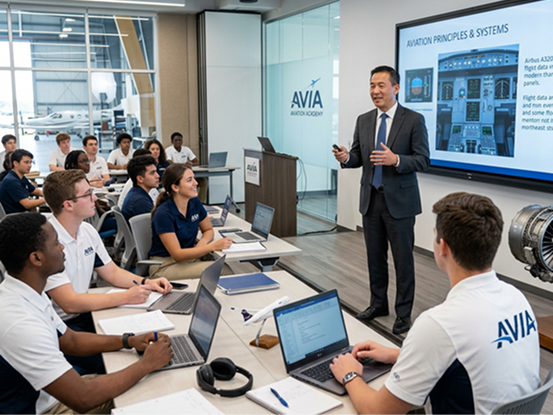
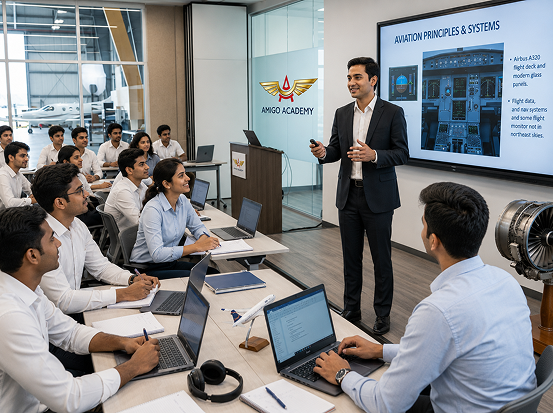
Apply changes to b48754f version

diff --git a/src/components/Footer.tsx b/src/components/Footer.tsx
@@ -26,7 +26,7 @@ export default function Footer() {
               className="flex items-center focus:outline-none w-fit"
               aria-label="Amigo Academy Home"
             >
-              <img src={logofooter} alt="Amigo Academy Logo" className="h-9 sm:h-12 w-auto object-contain" />
+              <img src={logofooter} alt="Amigo Academy Logo" className="h-16 sm:h-20 w-auto object-contain" />
             </button>
 
             {/* Contacts */}
@@ -86,7 +86,6 @@ export default function Footer() {
             </h4>
             <nav className="flex flex-col space-y-2.5 text-xs sm:text-sm text-slate-400">
               <button onClick={() => handleNavClick("/courses/air-hostess-cabin-crew-hospitality-management")} className="text-left hover:text-white transition-colors w-fit">Air Hostess / Cabin Crew</button>
-              <button onClick={() => handleNavClick("/courses/airport-ground-staff-hospitality-management")} className="text-left hover:text-white transition-colors w-fit">Airport Ground Staff</button>
               <button onClick={() => handleNavClick("/courses/ai-data-science-with-generative-ai-machine-learning")} className="text-left hover:text-white transition-colors w-fit">AI & Data Science</button>
               <button onClick={() => handleNavClick("/courses")} className="text-left hover:text-white transition-colors w-fit">All Courses</button>
             </nav>
@@ -98,9 +97,9 @@ export default function Footer() {
               Career Guides
             </h4>
             <nav className="flex flex-col space-y-2.5 text-xs sm:text-sm text-slate-400">
-              <button onClick={() => handleNavClick("/cabin-crew")} className="text-left hover:text-white transition-colors w-fit">Cabin Crew</button>
-              <button onClick={() => handleNavClick("/airport-ground-staff")} className="text-left hover:text-white transition-colors w-fit">Airport Ground Staff</button>
-              <button onClick={() => handleNavClick("/ai-data-science")} className="text-left hover:text-white transition-colors w-fit">AI & Data Science</button>
+              <button onClick={() => handleNavClick("/career-guide/cabin-crew")} className="text-left hover:text-white transition-colors w-fit">Cabin Crew</button>
+              <button onClick={() => handleNavClick("/career-guide/airport-ground-staff")} className="text-left hover:text-white transition-colors w-fit">Airport Ground Staff</button>
+              <button onClick={() => handleNavClick("/career-guide/ai-data-science")} className="text-left hover:text-white transition-colors w-fit">AI & Data Science</button>
               <button onClick={() => handleNavClick("/career-guides")} className="text-left hover:text-white transition-colors w-fit">All Career Guides</button>
             </nav>
           </div>
@@ -188,22 +187,34 @@ export default function Footer() {
         {/* Bottom copyright & Socials */}
         <div className="pt-8 flex flex-col md:flex-row items-center justify-between text-xs text-slate-500">
           {/* Social Links */}
-          <div className="flex items-center space-x-4 mb-4 md:mb-0">
-            <span className="text-slate-400 font-sans font-bold uppercase tracking-wider mr-2">Get Social</span>
-
+          <div className="flex items-center space-x-6 mb-4 md:mb-0">
             {/* Facebook */}
-            <a href="https://www.facebook.com/share/1dUEaqYi4g/" target="_blank" rel="noreferrer" className="w-7 h-7 rounded-full border border-slate-700 flex items-center justify-center text-slate-400 hover:text-white hover:border-white transition-colors" aria-label="Facebook">
-              <svg className="w-3.5 h-3.5 fill-currentColor" viewBox="0 0 24 24">
+            <a href="https://www.facebook.com/share/1dUEaqYi4g/" target="_blank" rel="noreferrer" className="text-slate-400 hover:text-white transition-colors" aria-label="Facebook">
+              <svg className="w-5 h-5 fill-current" viewBox="0 0 24 24">
                 <path d="M22 12c0-5.52-4.48-10-10-10S2 6.48 2 12c0 4.84 3.44 8.87 8 9.8V15H8v-3h2V9.5C10 7.57 11.57 6 13.5 6H16v3h-2c-.55 0-1 .45-1 1v2h3v3h-3v6.95c4.56-.93 8-4.96 8-9.75z" />
               </svg>
             </a>
 
             {/* Instagram */}
-            <a href="https://www.instagram.com/amigo_academy?igsh=MXVyOGR3Y3lid3RsMg==" target="_blank" rel="noreferrer" className="w-7 h-7 rounded-full border border-slate-700 flex items-center justify-center text-slate-400 hover:text-white hover:border-white transition-colors" aria-label="Instagram">
-              <svg className="w-3.5 h-3.5" fill="none" stroke="currentColor" strokeWidth={2} viewBox="0 0 24 24">
+            <a href="https://www.instagram.com/amigo_academy?igsh=MXVyOGR3Y3lid3RsMg==" target="_blank" rel="noreferrer" className="text-slate-400 hover:text-white transition-colors" aria-label="Instagram">
+              <svg className="w-5 h-5 fill-none stroke-current" strokeWidth={2} viewBox="0 0 24 24">
                 <rect x="2" y="2" width="20" height="20" rx="5" ry="5" />
                 <path d="M16 11.37A4 4 0 1112.63 8 4 4 0 0116 11.37z" />
                 <line x1="17.5" y1="6.5" x2="17.51" y2="6.5" />
+              </svg>
+            </a>
+
+            {/* X (formerly Twitter) */}
+            <a href="https://x.com/amigo_academy" target="_blank" rel="noreferrer" className="text-slate-400 hover:text-white transition-colors" aria-label="X (Twitter)">
+              <svg className="w-5 h-5 fill-current" viewBox="0 0 24 24">
+                <path d="M18.244 2.25h3.308l-7.227 8.26 8.502 11.24H16.17l-5.214-6.817L4.99 21.75H1.68l7.73-8.835L1.254 2.25H8.08l4.713 6.231zm-1.161 17.52h1.833L7.084 4.126H5.117z" />
+              </svg>
+            </a>
+
+            {/* LinkedIn */}
+            <a href="https://www.linkedin.com/company/amigo-academy" target="_blank" rel="noreferrer" className="text-slate-400 hover:text-white transition-colors" aria-label="LinkedIn">
+              <svg className="w-5 h-5 fill-current" viewBox="0 0 24 24">
+                <path d="M19 3a2 2 0 0 1 2 2v14a2 2 0 0 1-2 2H5a2 2 0 0 1-2-2V5a2 2 0 0 1 2-2h14m-.5 15.5v-5.3a3.26 3.26 0 0 0-3.26-3.26c-.85 0-1.84.52-2.32 1.3v-1.11h-2.79v8.37h2.79v-4.93c0-.77.62-1.4 1.39-1.4a1.4 1.4 0 0 1 1.4 1.4v4.93h2.79M6.88 8.56a1.68 1.68 0 0 0 1.68-1.68c0-.93-.75-1.69-1.68-1.69a1.69 1.69 0 0 0-1.69 1.69c0 .93.76 1.68 1.69 1.68m1.39 9.94v-8.37H5.5v8.37h2.77z"/>
               </svg>
             </a>
           </div>

diff --git a/src/components/Header.tsx b/src/components/Header.tsx
@@ -19,12 +19,11 @@ export default function Header() {
   const courses = [
     { name: "Aviation & Hospitality Management", desc: "12-month professional diploma" },
     { name: "Air Hostess Training", desc: "Cabin crew training & placement" },
-    { name: "AI & Data Science Certified", desc: "State certified analytics course" },
-    { name: "Global Airport Operations", desc: "Ground staff & security management" }
+    { name: "AI & Data Science Certified", desc: "State certified analytics course" }
   ];
 
   return (
-    <header className="w-full z-50 bg-white">
+    <header className="w-full sticky md:static top-0 z-50 bg-white max-md:shadow-sm">
       {/* Top Bar 1: Certification Notice */}
       <div className="w-full bg-[#f6a619] py-2 px-4 text-center border-b border-amber-600/10">
         <p className="text-neutral-900 font-sans font-bold text-[11px] sm:text-xs md:text-sm flex items-center justify-center gap-1.5 leading-none">
@@ -58,15 +57,18 @@ export default function Header() {
               className="flex items-center focus:outline-none"
               aria-label="Amigo Academy Home"
             >
-              <img src={logo} alt="Amigo Academy Logo" className="h-12 sm:h-16 lg:h-[72px] w-auto object-contain py-1" />
+              <img src={logo} alt="Amigo Academy Logo" className="h-16 sm:h-16 lg:h-[72px] w-auto object-contain py-1" />
             </button>
 
             {/* Desktop Links */}
             <nav className="hidden md:flex items-center space-x-5 text-[#1e293b] font-sans font-semibold text-sm">
               {/* Courses Dropdown Link */}
-              <div className="relative">
+              <div
+                className="relative"
+                onMouseEnter={() => setIsCoursesDropdownOpen(true)}
+                onMouseLeave={() => setIsCoursesDropdownOpen(false)}
+              >
                 <button
-                  onMouseEnter={() => setIsCoursesDropdownOpen(true)}
                   onClick={() => setIsCoursesDropdownOpen(!isCoursesDropdownOpen)}
                   className="flex items-center gap-1 hover:text-[#e31e24] transition-colors py-2 focus:outline-none"
                 >
@@ -79,7 +81,6 @@ export default function Header() {
                 {/* Dropdown Box */}
                 {isCoursesDropdownOpen && (
                   <div
-                    onMouseLeave={() => setIsCoursesDropdownOpen(false)}
                     className="absolute left-0 mt-2 w-64 bg-white rounded-xl shadow-xl border border-neutral-100 py-3 z-50 animate-fadeIn"
                   >
                     {courses.map((course, idx) => (
@@ -88,12 +89,12 @@ export default function Header() {
                         onClick={() => {
                           handleNavClick(
                             idx === 0
-                              ? "/courses/air-hostess-cabin-crew-hospitality-management"
-                              : idx === 3
-                                ? "/courses/airport-ground-staff-hospitality-management"
-                              : idx === 2
-                                ? "/courses/ai-data-science-with-generative-ai-machine-learning"
-                                : "/courses"
+                              ? "/courses"
+                              : idx === 1
+                                ? "/courses/air-hostess-cabin-crew-hospitality-management"
+                                : idx === 2
+                                  ? "/courses/ai-data-science-with-generative-ai-machine-learning"
+                                  : "/courses"
                           );
                           setIsCoursesDropdownOpen(false);
                         }}
@@ -182,16 +183,16 @@ export default function Header() {
               <span className="text-neutral-400 text-xs uppercase tracking-wider block mb-2">Our Courses</span>
               {courses.map((course, idx) => (
                 <button
-                key={idx}
+                  key={idx}
                   onClick={() =>
                     handleNavClick(
                       idx === 0
-                        ? "/courses/air-hostess-cabin-crew-hospitality-management"
-                        : idx === 3
-                          ? "/courses/airport-ground-staff-hospitality-management"
-                        : idx === 2
-                          ? "/courses/ai-data-science-with-generative-ai-machine-learning"
-                          : "/courses"
+                        ? "/courses"
+                        : idx === 1
+                          ? "/courses/air-hostess-cabin-crew-hospitality-management"
+                          : idx === 2
+                            ? "/courses/ai-data-science-with-generative-ai-machine-learning"
+                            : "/courses"
                     )
                   }
                   className="w-full text-left py-1.5 text-sm text-neutral-700 hover:text-[#e31e24] block"

diff --git a/src/pages/Home.tsx b/src/pages/Home.tsx
@@ -662,7 +662,7 @@ export default function Home({ setCurrentPage }: HomeProps = {}) {
               </div>
               <div className="flex flex-col space-y-1">
                 <h3 className="text-base sm:text-lg font-bold text-[#0f2a4a] flex items-center gap-1.5 font-sans">
-                  <span>🎓</span> Maharashtra Govt Certified
+                  Maharashtra Govt Certified
                 </h3>
                 <p className="text-slate-500 text-xs sm:text-sm leading-relaxed font-sans font-semibold">
                   Maharashtra Govt-certified — a recognized qualification trusted by employers across India.
@@ -681,7 +681,7 @@ export default function Home({ setCurrentPage }: HomeProps = {}) {
               </div>
               <div className="flex flex-col space-y-1">
                 <h3 className="text-base sm:text-lg font-bold text-[#0f2a4a] flex items-center gap-1.5 font-sans">
-                  <span>💼</span> Strong Placement Support
+                  Strong Placement Support
                 </h3>
                 <p className="text-slate-500 text-xs sm:text-sm leading-relaxed font-sans font-semibold">
                   Active hiring connections across aviation and tech — including IndiGo, Air India, Emirates, Mumbai Airport and IT & AI companies. We push your profile until selected.
@@ -699,7 +699,7 @@ export default function Home({ setCurrentPage }: HomeProps = {}) {
               </div>
               <div className="flex flex-col space-y-1">
                 <h3 className="text-base sm:text-lg font-bold text-[#0f2a4a] flex items-center gap-1.5 font-sans">
-                  <span>💳</span> Easy EMI Options
+                  Easy EMI Options
                 </h3>
                 <p className="text-slate-500 text-xs sm:text-sm leading-relaxed font-sans font-semibold">
                   Scholarship up to ₹50,000 plus flexible zero-interest EMI on all courses. Quality education without financial pressure.
@@ -716,7 +716,7 @@ export default function Home({ setCurrentPage }: HomeProps = {}) {
               </div>
               <div className="flex flex-col space-y-1">
                 <h3 className="text-base sm:text-lg font-bold text-[#0f2a4a] flex items-center gap-1.5 font-sans">
-                  <span>🤝</span> Lifetime Career Support
+                  Lifetime Career Support
                 </h3>
                 <p className="text-slate-500 text-xs sm:text-sm leading-relaxed font-sans font-semibold">
                   Support doesn't stop at graduation. Ongoing career counselling and job connections at every stage.
@@ -733,7 +733,7 @@ export default function Home({ setCurrentPage }: HomeProps = {}) {
               </div>
               <div className="flex flex-col space-y-1">
                 <h3 className="text-base sm:text-lg font-bold text-[#0f2a4a] flex items-center gap-1.5 font-sans">
-                  <span>💬</span> Free Career Counselling
+                  Free Career Counselling
                 </h3>
                 <p className="text-slate-500 text-xs sm:text-sm leading-relaxed font-sans font-semibold">
                   Talk to an academy mentor today for free guidance on the right course and career path.

diff --git a/src/pages/CareerGuides.tsx b/src/pages/CareerGuides.tsx
@@ -161,7 +161,7 @@ export default function CareerGuides() {
 
               <div className="px-6 pb-7">
                 <button
-                  onClick={() => { navigate("/cabin-crew"); window.scrollTo({ top: 0, behavior: "smooth" }); }}
+                  onClick={() => { navigate("/career-guide/cabin-crew"); window.scrollTo({ top: 0, behavior: "smooth" }); }}
                   className="w-full bg-[#DF1818] hover:bg-[#c41212] text-white font-sans font-bold text-xs sm:text-[13px] py-3.5 px-5 rounded-full shadow-[0_6px_16px_rgba(223,24,24,0.15)] hover:shadow-[0_8px_24px_rgba(223,24,24,0.25)] transition-all duration-300 active:scale-95 flex items-center justify-center gap-1.5 focus:outline-none cursor-pointer"
                 >
                   Explore Air Hostess / Cabin Crew Guides
@@ -212,7 +212,7 @@ export default function CareerGuides() {
 
               <div className="px-6 pb-7">
                 <button
-                  onClick={() => { navigate("/airport-ground-staff"); window.scrollTo({ top: 0, behavior: "smooth" }); }}
+                  onClick={() => { navigate("/career-guide/airport-ground-staff"); window.scrollTo({ top: 0, behavior: "smooth" }); }}
                   className="w-full bg-[#DF1818] hover:bg-[#c41212] text-white font-sans font-bold text-xs sm:text-[13px] py-3.5 px-5 rounded-full shadow-[0_6px_16px_rgba(223,24,24,0.15)] hover:shadow-[0_8px_24px_rgba(223,24,24,0.25)] transition-all duration-300 active:scale-95 flex items-center justify-center gap-1.5 focus:outline-none cursor-pointer"
                 >
                   Explore Airport Ground Staff Course
@@ -263,7 +263,7 @@ export default function CareerGuides() {
 
               <div className="px-6 pb-7">
                 <button
-                  onClick={() => { navigate("/ai-data-science"); window.scrollTo({ top: 0, behavior: "smooth" }); }}
+                  onClick={() => { navigate("/career-guide/ai-data-science"); window.scrollTo({ top: 0, behavior: "smooth" }); }}
                   className="w-full bg-[#DF1818] hover:bg-[#c41212] text-white font-sans font-bold text-xs sm:text-[13px] py-3.5 px-5 rounded-full shadow-[0_6px_16px_rgba(223,24,24,0.15)] hover:shadow-[0_8px_24px_rgba(223,24,24,0.25)] transition-all duration-300 active:scale-95 flex items-center justify-center gap-1.5 focus:outline-none cursor-pointer"
                 >
                   Explore AI & Data Science Course

diff --git a/src/pages/GhatkoparBranch.tsx b/src/pages/GhatkoparBranch.tsx
@@ -21,21 +21,21 @@ export default function GhatkoparBranch() {
       title: "Air Hostess / Cabin Crew",
       desc: "Prepare for a professional career with domestic and international airlines through practical training, personality development, and interview preparation.",
       btn: "Explore Air Hostess / Cabin Crew Course",
-      link: "/cabin-crew"
+      link: "/career-guide/cabin-crew"
     },
     {
       image: course2,
       title: "Airport Ground Staff",
       desc: "Build the knowledge and practical skills required for customer service and operational roles within airports and the aviation industry.",
       btn: "Explore Airport Ground Staff Course",
-      link: "/airport-ground-staff"
+      link: "/career-guide/airport-ground-staff"
     },
     {
       image: course3,
       title: "AI & Data Science",
       desc: "Develop future-ready technical skills through industry-oriented learning, practical projects, and career-focused training in Artificial Intelligence and Data Science.",
       btn: "Explore AI & Data Science Course",
-      link: "/ai-data-science"
+      link: "/career-guide/ai-data-science"
     }
   ];
 

diff --git a/src/pages/AndheriBranch.tsx b/src/pages/AndheriBranch.tsx
@@ -21,21 +21,21 @@ export default function AndheriBranch() {
       title: "Air Hostess / Cabin Crew",
       desc: "Prepare for a professional career with domestic and international airlines through practical training, personality development, and interview preparation.",
       btn: "Explore Air Hostess / Cabin Crew Course",
-      link: "/cabin-crew"
+      link: "/career-guide/cabin-crew"
     },
     {
       image: course2,
       title: "Airport Ground Staff",
       desc: "Build the knowledge and practical skills required for customer service and operational roles within airports and the aviation industry.",
       btn: "Explore Airport Ground Staff Course",
-      link: "/airport-ground-staff"
+      link: "/career-guide/airport-ground-staff"
     },
     {
       image: course3,
       title: "AI & Data Science",
       desc: "Develop future-ready technical skills through industry-oriented learning, practical projects, and career-focused training in Artificial Intelligence and Data Science.",
       btn: "Explore AI & Data Science Course",
-      link: "/ai-data-science"
+      link: "/career-guide/ai-data-science"
     }
   ];
 

diff --git a/src/pages/ThaneBranch.tsx b/src/pages/ThaneBranch.tsx
@@ -21,21 +21,21 @@ export default function ThaneBranch() {
       title: "Air Hostess / Cabin Crew",
       desc: "Prepare for a professional career with domestic and international airlines through practical training, personality development, and interview preparation.",
       btn: "Explore Air Hostess / Cabin Crew Course",
-      link: "/cabin-crew"
+      link: "/career-guide/cabin-crew"
     },
     {
       image: course2,
       title: "Airport Ground Staff",
       desc: "Build the knowledge and practical skills required for customer service and operational roles within airports and the aviation industry.",
       btn: "Explore Airport Ground Staff Course",
-      link: "/airport-ground-staff"
+      link: "/career-guide/airport-ground-staff"
     },
     {
       image: course3,
       title: "AI & Data Science",
       desc: "Develop future-ready technical skills through industry-oriented learning, practical projects, and career-focused training in Artificial Intelligence and Data Science.",
       btn: "Explore AI & Data Science Course",
-      link: "/ai-data-science"
+      link: "/career-guide/ai-data-science"
     }
   ];
 

diff --git a/src/App.tsx b/src/App.tsx
@@ -51,9 +51,9 @@ function App() {
           <Route path="/placement" element={<Placement />} />
           <Route path="/franchise" element={<Franchise />} />
           <Route path="/career-guides" element={<CareerGuides />} />
-          <Route path="/cabin-crew" element={<CabinCrew />} />
-          <Route path="/airport-ground-staff" element={<AirportGroundStaff />} />
-          <Route path="/ai-data-science" element={<AiDataScience />} />
+          <Route path="/career-guide/cabin-crew" element={<CabinCrew />} />
+          <Route path="/career-guide/airport-ground-staff" element={<AirportGroundStaff />} />
+          <Route path="/career-guide/ai-data-science" element={<AiDataScience />} />
           <Route path="/andheri-branch" element={<AndheriBranch />} />
           <Route path="/thane-branch" element={<ThaneBranch />} />
           <Route path="/ghatkopar-branch" element={<GhatkoparBranch />} />

diff --git a/src/components/Layout.tsx b/src/components/Layout.tsx
@@ -42,7 +42,7 @@ export default function Layout({ children }: LayoutProps) {
   }, [pathname, children]);
 
   return (
-    <div className="flex flex-col min-h-screen bg-neutral-50 text-neutral-900 font-sans selection:bg-indigo-500 selection:text-white antialiased relative overflow-x-hidden">
+    <div className="flex flex-col min-h-screen bg-neutral-50 text-neutral-900 font-sans selection:bg-indigo-500 selection:text-white antialiased relative overflow-x-clip">
       {/* Premium background mesh gradients */}
       <div className="absolute inset-0 bg-[radial-gradient(ellipse_at_top_right,rgba(99,102,241,0.08),transparent_50%),radial-gradient(ellipse_at_bottom_left,rgba(139,92,246,0.06),transparent_50%)] pointer-events-none z-0" />
       <div className="absolute top-1/4 left-1/2 -translate-x-1/2 w-[500px] h-[500px] bg-indigo-500/5 rounded-full blur-[120px] pointer-events-none z-0" />

diff --git a/src/pages/AirportGroundStaff.tsx b/src/pages/AirportGroundStaff.tsx
@@ -486,9 +486,9 @@ export default function AirportGroundStaff() {
                       key={cardIdx}
                       onClick={() => {
                         if (card.title.includes("Cabin Crew") || card.title.includes("Air Hostess")) {
-                          navigate("/cabin-crew");
+                          navigate("/career-guide/cabin-crew");
                         } else if (card.title.includes("AI") || card.title.includes("Data Science")) {
-                          navigate("/ai-data-science");
+                          navigate("/career-guide/ai-data-science");
                         } else {
                           navigate("/contact");
                         }

diff --git a/src/pages/CabinCrew.tsx b/src/pages/CabinCrew.tsx
@@ -518,9 +518,9 @@ export default function CabinCrew() {
                       key={cardIdx}
                       onClick={() => {
                         if (card.title.includes("Ground Staff")) {
-                          navigate("/airport-ground-staff");
+                          navigate("/career-guide/airport-ground-staff");
                         } else if (card.title.includes("AI") || card.title.includes("Data Science")) {
-                          navigate("/ai-data-science");
+                          navigate("/career-guide/ai-data-science");
                         } else {
                           navigate("/contact");
                         }

diff --git a/src/pages/AiDataScience.tsx b/src/pages/AiDataScience.tsx
@@ -399,9 +399,9 @@ export default function AiDataScience() {
                       key={cardIdx}
                       onClick={() => {
                         if (card.title.includes("Cabin Crew")) {
-                          navigate("/cabin-crew");
+                          navigate("/career-guide/cabin-crew");
                         } else if (card.title.includes("Ground Staff")) {
-                          navigate("/airport-ground-staff");
+                          navigate("/career-guide/airport-ground-staff");
                         } else {
                           navigate("/contact");
                         }
